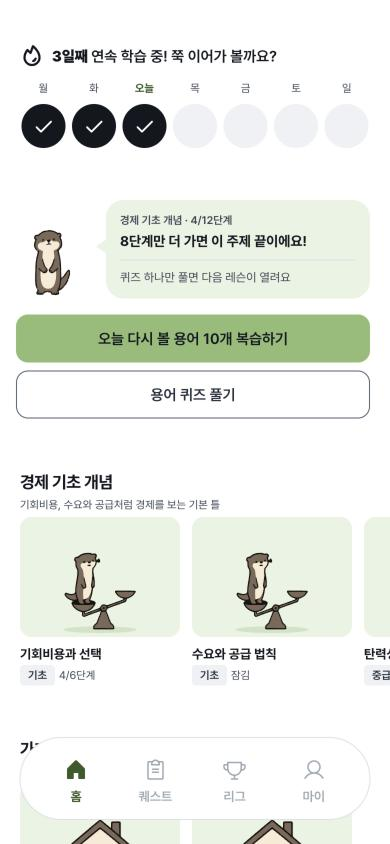
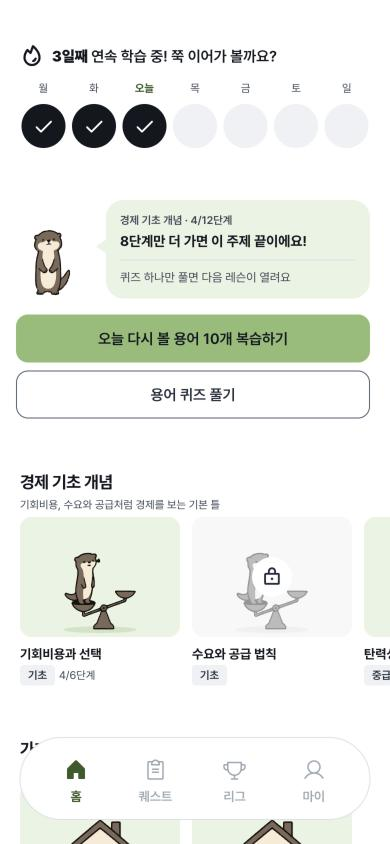
리그 등급 그림 56px로 키우고 동그라미 테두리·뒤 진행 선 제거(현재 등급은 이름 색으로), 홈 잠긴 코스는 '잠김' 글자 대신 흐린 그림 + 자물쇠

Changed region(s): [[0.6154, 0.6469, 0.8, 0.7701]]

diff --git a/src/index.css b/src/index.css
@@ -1129,13 +1129,13 @@ button.course-home-rail-card:active { background: var(--color-surface); }
 
 /* 리그: 등급 단계 로드맵 */
 .league-tier-road { position: relative; display: grid; grid-template-columns: repeat(5, minmax(0, 1fr)); margin: 0; padding: var(--space-5) var(--space-2) var(--space-4); border-radius: var(--shape-card); background: var(--color-card); box-shadow: var(--shadow-card); list-style: none; }
-.league-tier-road::before, .league-tier-road::after { content: ''; position: absolute; top: calc(var(--space-5) + 22px); left: 10%; height: 8px; margin-top: calc(var(--space-1) * -1); border-radius: var(--shape-full); }
+.league-tier-road::before, .league-tier-road::after { content: none; position: absolute; top: calc(var(--space-5) + 30px); left: 10%; height: 8px; margin-top: calc(var(--space-1) * -1); border-radius: var(--shape-full); }
 .league-tier-road::before { right: 10%; background: var(--color-surface); }
 .league-tier-road::after { width: calc(80% * var(--road-progress)); background: var(--color-progress); }
 .league-tier-step { position: relative; z-index: 1; display: flex; min-width: 0; flex-direction: column; align-items: center; gap: var(--space-1); }
-.league-tier-node { display: flex; width: 44px; height: 44px; align-items: center; justify-content: center; border: 2px solid var(--color-line); border-radius: 50%; background: var(--color-card); }
-.league-tier-step[data-state='done'] .league-tier-node { border-color: var(--color-line-strong); background: var(--color-card); color: var(--color-ink-2); }
-.league-tier-step[data-state='current'] .league-tier-node { width: 52px; height: 52px; margin-top: calc(var(--space-1) * -1); border: 3px solid var(--color-accent-line-strong); box-shadow: 0 0 0 4px var(--color-accent-soft); color: var(--color-accent-foreground); }
+.league-tier-node { display: flex; width: 60px; height: 60px; align-items: center; justify-content: center; }
+.league-tier-step[data-state='done'] .league-tier-node { color: var(--color-ink-2); }
+.league-tier-step[data-state='current'] .league-tier-node { color: var(--color-accent-foreground); }
 .league-tier-step[data-state='future'] .league-tier-node .stage-glyph { opacity: 1; filter: none; }
 .league-tier-name { margin-top: var(--space-1); max-width: 100%; overflow: hidden; color: var(--color-ink-3); font-size: var(--font-size-caption); text-overflow: ellipsis; white-space: nowrap; }
 .league-tier-step[data-state='current'] .league-tier-name { color: var(--color-accent-foreground); font-weight: var(--font-weight-bold); }
@@ -1213,6 +1213,10 @@ button.course-home-rail-card { width: 160px; flex-direction: column; align-items
 .course-home-rail-text { display: flex; min-width: 0; flex-direction: column; gap: 2px; }
 .course-home-rail-card .course-home-rail-title { font-size: var(--font-size-label); }
 .course-home-rail-card .course-home-rail-meta { display: flex; align-items: center; gap: var(--space-1); }
+/* 잠긴 코스: 글자 대신 흐린 그림 + 가운데 자물쇠 */
+.course-home-rail-thumb { position: relative; display: block; }
+.course-home-rail-card[data-locked='true'] .topic-thumb { opacity: 0.45; filter: grayscale(1); }
+.course-home-rail-lock { position: absolute; top: 50%; left: 50%; display: flex; width: 40px; height: 40px; align-items: center; justify-content: center; border-radius: 50%; background: var(--color-card); color: var(--color-ink-2); transform: translate(-50%, -50%); }
 .course-level-badge { padding: 2px var(--space-2); border-radius: var(--shape-sm); background: var(--color-surface); color: var(--color-ink-2); font-size: var(--font-size-caption); font-weight: var(--font-weight-semibold); }
 .course-home-section-desc { margin: 2px 0 0; color: var(--color-ink-3); font-size: var(--font-size-caption); }
 /* 주제 썸네일(홈 카드·뉴스). 사진이 없으면 회색 바탕 + 첫 글자 */

diff --git a/src/pages/CourseScreen.tsx b/src/pages/CourseScreen.tsx
@@ -392,12 +392,15 @@ const CourseScreen = () => {
                 const locked = section.nodes.every(node => node.state === 'locked');
                 const name = COURSE_NAMES[section.course.id] ?? (topic.parts.length > 1 ? `${topic.level} ${pi + 1}` : topic.level);
                 return (
-                  <button key={section.course.id} type="button" role="listitem" className="course-home-rail-card"
+                  <button key={section.course.id} type="button" role="listitem" className="course-home-rail-card" data-locked={locked}
                     onClick={() => navigate(`/course?topic=${topic.index}`)} aria-label={`${topic.level} ${name} 코스 열기, ${locked ? '잠김' : `${done}/${steps.length}단계 완료`}`}>
-                    <TopicThumb category={category} size={160} height={120} />
+                    <span className="course-home-rail-thumb">
+                      <TopicThumb category={category} size={160} height={120} />
+                      {locked && <span className="course-home-rail-lock"><LockKeyhole size={20} aria-hidden="true" /></span>}
+                    </span>
                     <span className="course-home-rail-text">
                       <span className="course-home-rail-title">{name}</span>
-                      <span className="course-home-rail-meta"><span className="course-level-badge">{topic.level}</span>{locked ? '잠김' : `${done}/${steps.length}단계`}</span>
+                      <span className="course-home-rail-meta"><span className="course-level-badge">{topic.level}</span>{!locked && `${done}/${steps.length}단계`}</span>
                     </span>
                   </button>
                 );

diff --git a/src/pages/LeagueScreen.tsx b/src/pages/LeagueScreen.tsx
@@ -73,13 +73,13 @@ const LeagueScreen = () => {
           <p className="mt-1! text-2xs text-[var(--color-ink-3)]">초기화까지 {daysUntilReset()}일</p>
         </section>
 
-        {/* 티어 로드맵: 굵은 진행 트랙 위에 등급 노드를 올리고, 현재 등급은 테두리로 강조한다 */}
+        {/* 티어 로드맵: 테두리·선 없이 등급 그림만 나란히, 현재 등급은 이름 색·굵기로 강조한다 */}
         <ol className="league-tier-road anim-fade-up" aria-label="등급 단계" style={{ '--i': 1, '--road-progress': (stage.id - 1) / (GROWTH_STAGES.length - 1) } as React.CSSProperties}>
           {GROWTH_STAGES.map(s => {
             const state = s.id < stage.id ? 'done' : s.id === stage.id ? 'current' : 'future';
             return (
               <li key={s.id} className="league-tier-step" data-state={state} aria-current={state === 'current' ? 'step' : undefined}>
-                <span className="league-tier-node"><StageGlyph id={s.id} size={28} locked={state === 'future'} /></span>
+                <span className="league-tier-node"><StageGlyph id={s.id} size={56} locked={state === 'future'} /></span>
                 <span className="league-tier-name">{s.name}</span>
                 <span className="league-tier-xp">{s.minPoints.toLocaleString()}XP</span>
               </li>
